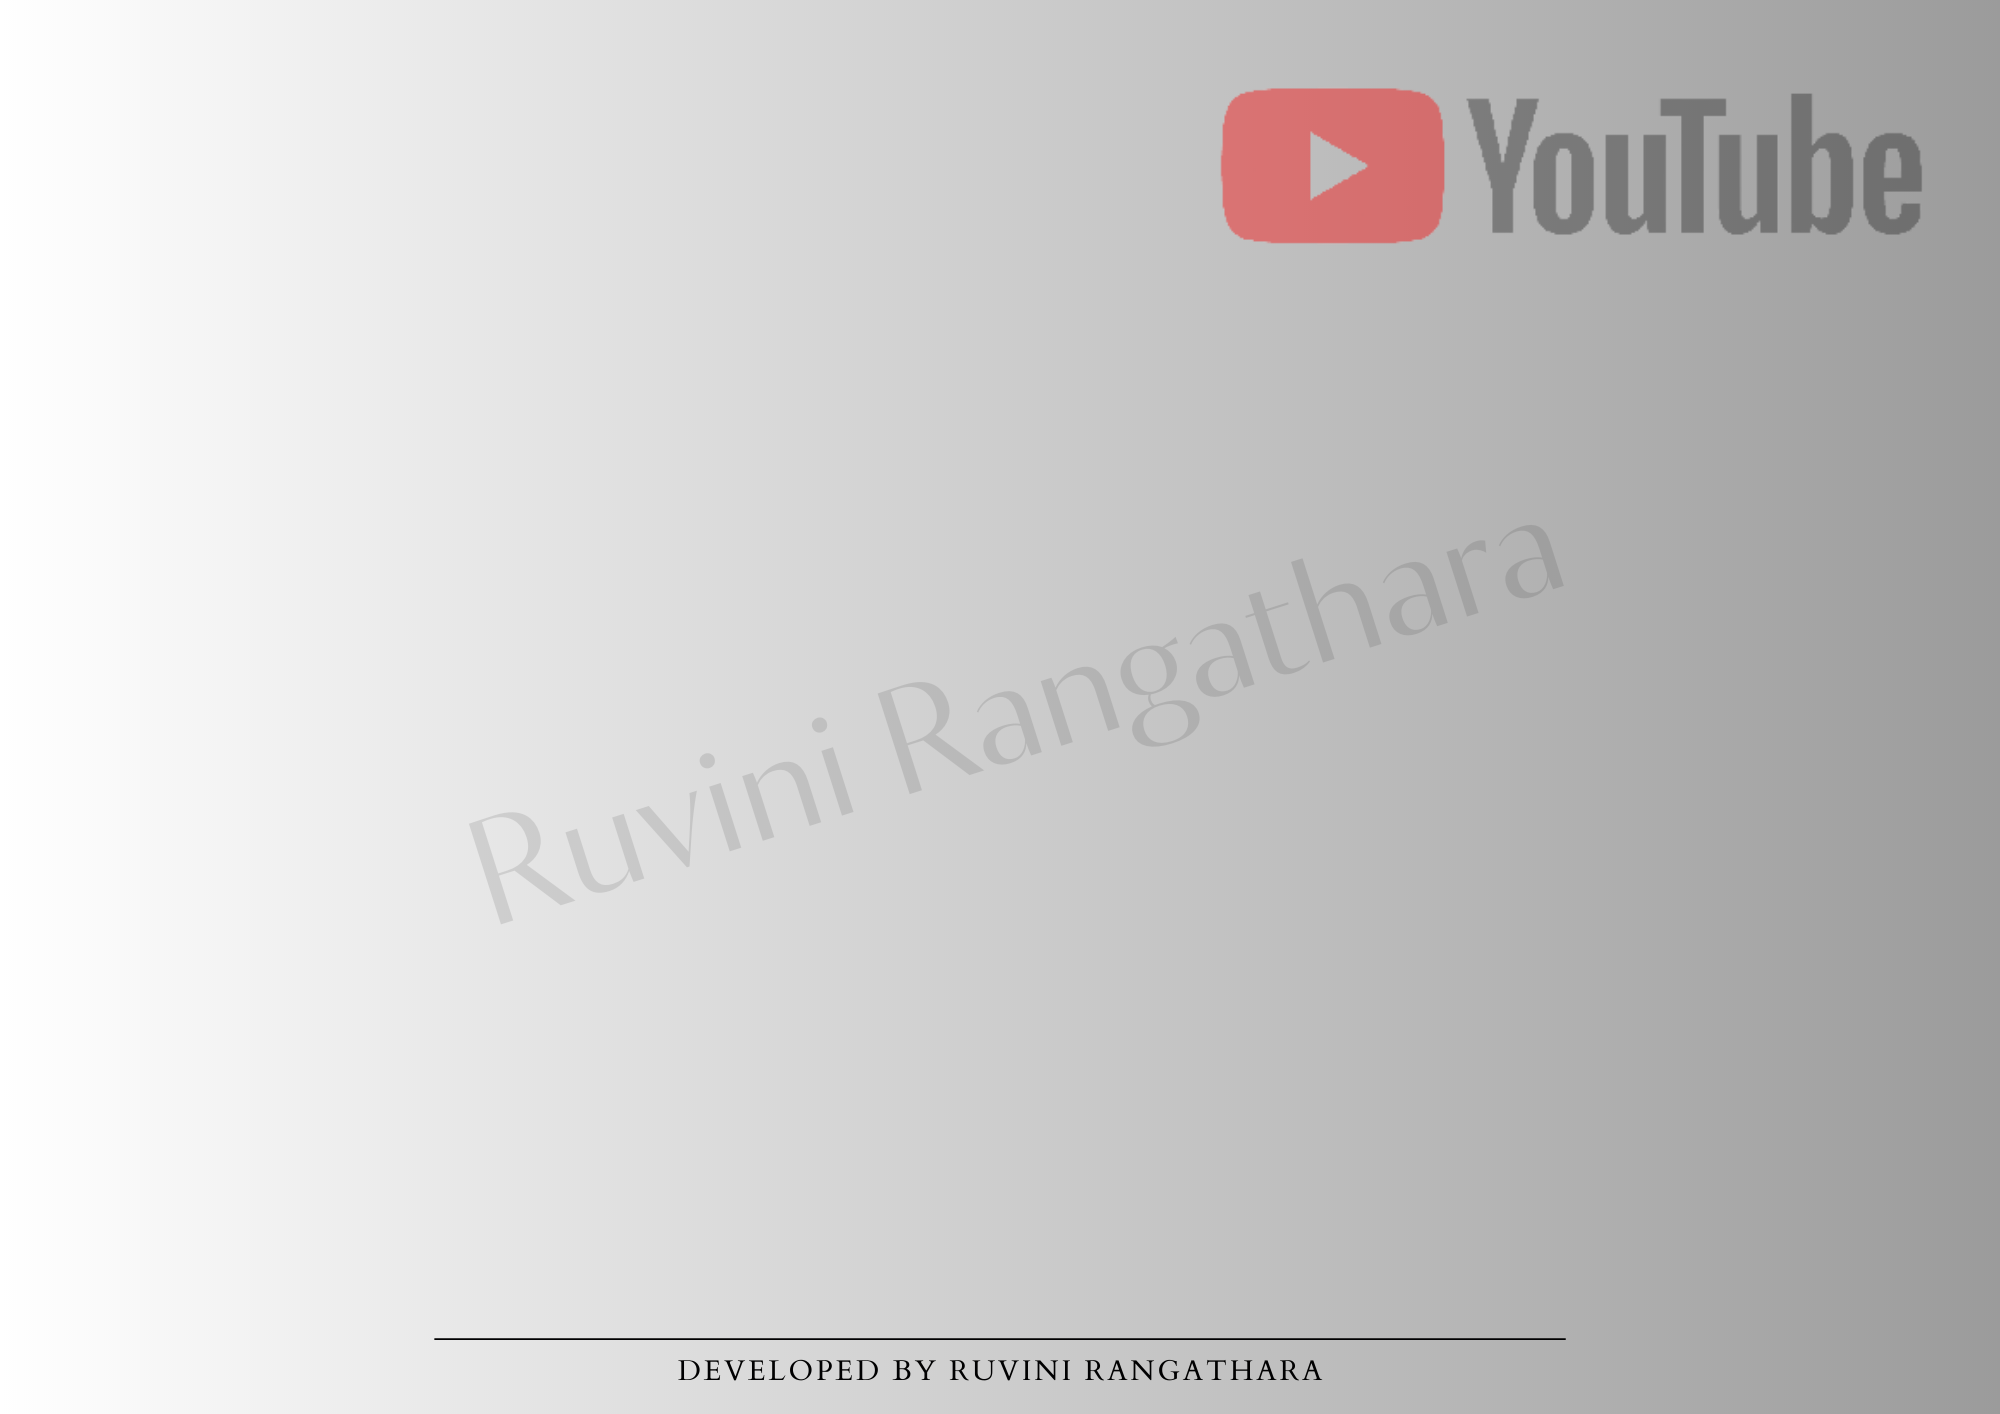
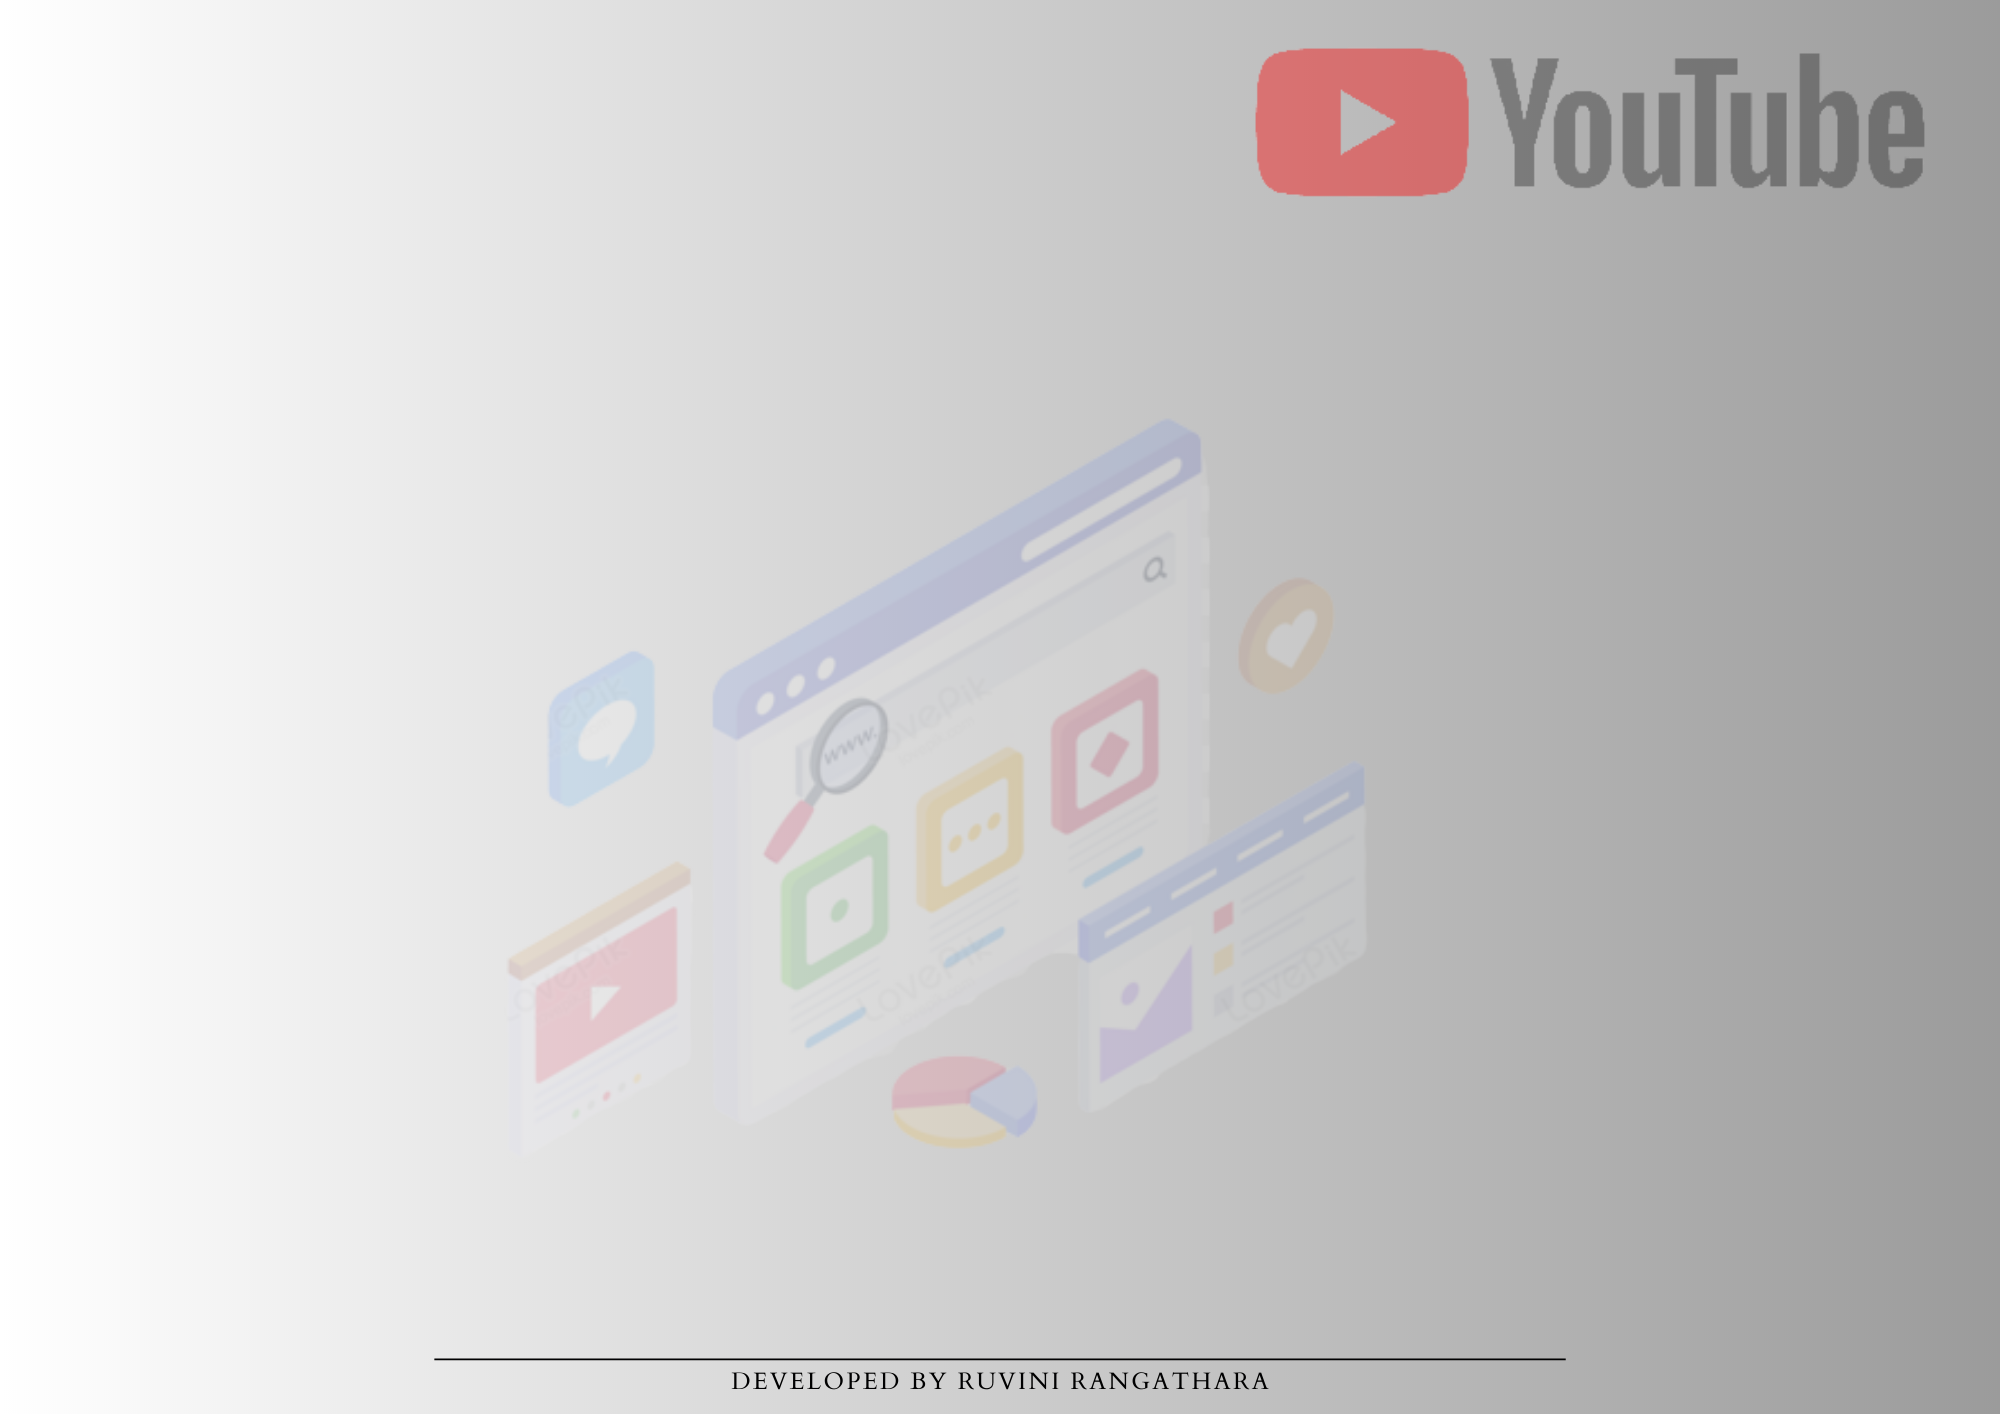
Add Welcome Page

diff --git a/src/main/java/com/example/youtubechannel/controller/WelcomeFormController.java b/src/main/java/com/example/youtubechannel/controller/WelcomeFormController.java
@@ -1,0 +1,29 @@
+package com.example.youtubechannel.controller;
+
+import javafx.event.ActionEvent;
+import javafx.fxml.FXML;
+import javafx.fxml.FXMLLoader;
+import javafx.scene.Scene;
+import javafx.scene.layout.AnchorPane;
+import javafx.stage.Stage;
+
+import java.io.IOException;
+
+public class WelcomeFormController {
+    @FXML
+    private AnchorPane context;
+
+    @FXML
+    void btnStart(ActionEvent event) {
+        context.getChildren().clear();
+        Stage stage = (Stage) context.getScene().getWindow();
+        try {
+            stage.setScene(new Scene(FXMLLoader.load(getClass().getResource("/view/MainForm.fxml"))));
+            stage.setTitle("YouTube Channel Detail");
+            stage.show();
+        } catch (IOException e) {
+            throw new RuntimeException(e);
+        }
+
+    }
+}

diff --git a/src/main/java/com/example/youtubechannel/AppInitializer.java b/src/main/java/com/example/youtubechannel/AppInitializer.java
@@ -14,8 +14,8 @@ public class AppInitializer extends Application {
     @Override
     public void start(Stage stage) throws Exception {
         stage.setScene(new Scene(FXMLLoader
-                .load(getClass().getResource("/view/MainForm.fxml"))));
-        stage.setTitle("YouTube Channel Details");
+                .load(getClass().getResource("/view/WelcomeForm.fxml"))));
+        stage.setTitle("YouTube Channel Detail");
         stage.show();
     }
 }

diff --git a/src/main/java/com/example/youtubechannel/controller/MainFormController.java b/src/main/java/com/example/youtubechannel/controller/MainFormController.java
@@ -8,12 +8,15 @@ import javafx.fxml.Initializable;
 import javafx.scene.control.Alert;
 import javafx.scene.control.Label;
 import javafx.scene.control.TextField;
+import javafx.scene.layout.AnchorPane;
 
 import javax.swing.*;
 import java.net.URL;
 import java.util.ResourceBundle;
 
 public class MainFormController implements Initializable {
+    @FXML
+    private AnchorPane context;
 
     @FXML
     private Label lblCountry;

diff --git a/src/main/java/com/example/youtubechannel/ChannelDetail.java b/src/main/java/com/example/youtubechannel/ChannelDetail.java
@@ -51,6 +51,8 @@ public class ChannelDetail {
         return null;
     }
 
+
+
     private static YouTube createYouTubeService() throws GeneralSecurityException, IOException {
         HttpTransport httpTransport = new NetHttpTransport();
         JsonFactory jsonFactory = JacksonFactory.getDefaultInstance(); // Use JacksonFactory
